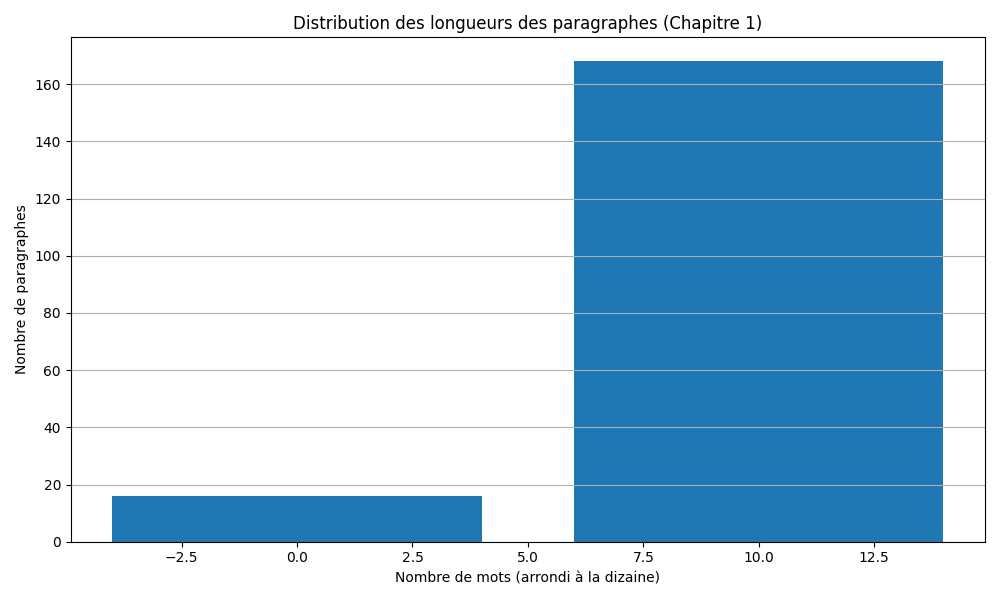
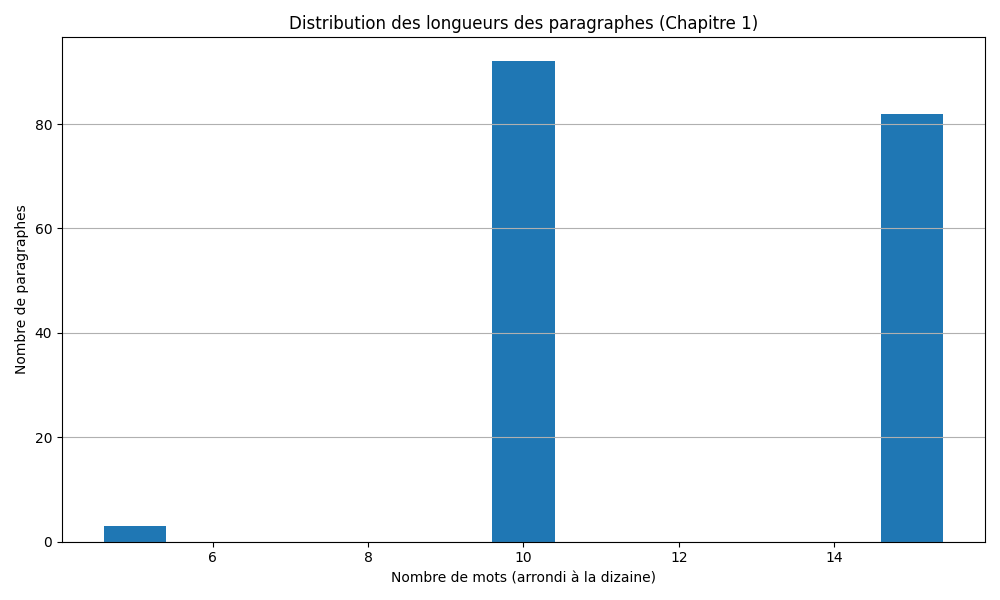
graphique.py patch

diff --git a/part2/graphique.py b/part2/graphique.py
@@ -3,40 +3,46 @@ import os
 from collections import Counter
 import math
 from analyse import lire_texte, extraire_chapitre_1
-
+import re
 
 
 def analyser_paragraphes(chapitre_texte):
-    """Analyse le chapitre : compte les mots par paragraphe (arrondis à la dizaine)."""
-    paragraphes = [p.strip() for p in chapitre_texte.split('\n\n') if p.strip()]
+    raw_paragraphes = re.split(r'\n', chapitre_texte)  # Split on single newlines
+    paragraphes = []
+    for p in raw_paragraphes:
+        p = p.replace('\n', ' ').strip()
+        if len(p.split()) >= 5:
+            paragraphes.append(p)
+    
+    # Debug: Print paragraph count and word counts
+    print(f"Nombre de paragraphes trouvés : {len(paragraphes)}")
+    for i, p in enumerate(paragraphes[:5]):  # Limit to first 5 for brevity
+        nb_mots = len(p.split())
+        print(f"Paragraphe {i+1} : {nb_mots} mots (arrondi à {int(math.floor(nb_mots / 10.0) * 10)})")
+    
     longueurs_arrondies = []
-
-    for paragraphe in paragraphes:
-        mots = paragraphe.split()
-        nb_mots = len(mots)
-
-        if nb_mots < 1:
-            continue  # Ignore les paragraphes vides
-
-        arrondi = int(math.floor(nb_mots / 10.0) * 10)
+    for p in paragraphes:
+        nb_mots = len(p.split())
+        arrondi = int(round(nb_mots / 5.0) * 5)  # Round to nearest 5 instead of 10
+        if arrondi == 0:
+            continue
         longueurs_arrondies.append(arrondi)
-
-
-
-    distribution = Counter(longueurs_arrondies)
-    distribution = dict(sorted(distribution.items()))
+    
+    distribution = dict(sorted(Counter(longueurs_arrondies).items()))
+    print("Valeurs arrondies utilisées :", distribution)
     return distribution
 
 
+
 def generer_graphique(distribution, chemin_fichier):
-    """Crée et enregistre un graphique de distribution."""
+    """Crée et enregistre un graphique"""
     os.makedirs(os.path.dirname(chemin_fichier), exist_ok=True)
 
     x = list(distribution.keys())
     y = list(distribution.values())
 
     plt.figure(figsize=(10, 6))
-    plt.bar(x, y, width=8)
+    plt.bar(x, y, width=0.8)
     plt.title("Distribution des longueurs des paragraphes (Chapitre 1)")
     plt.xlabel("Nombre de mots (arrondi à la dizaine)")
     plt.ylabel("Nombre de paragraphes")
@@ -47,9 +53,6 @@ def generer_graphique(distribution, chemin_fichier):
     plt.close()
 
 
-
-
-# Test direct
 if __name__ == "__main__":
     
     texte = lire_texte("part2/data/mobydick.txt")
